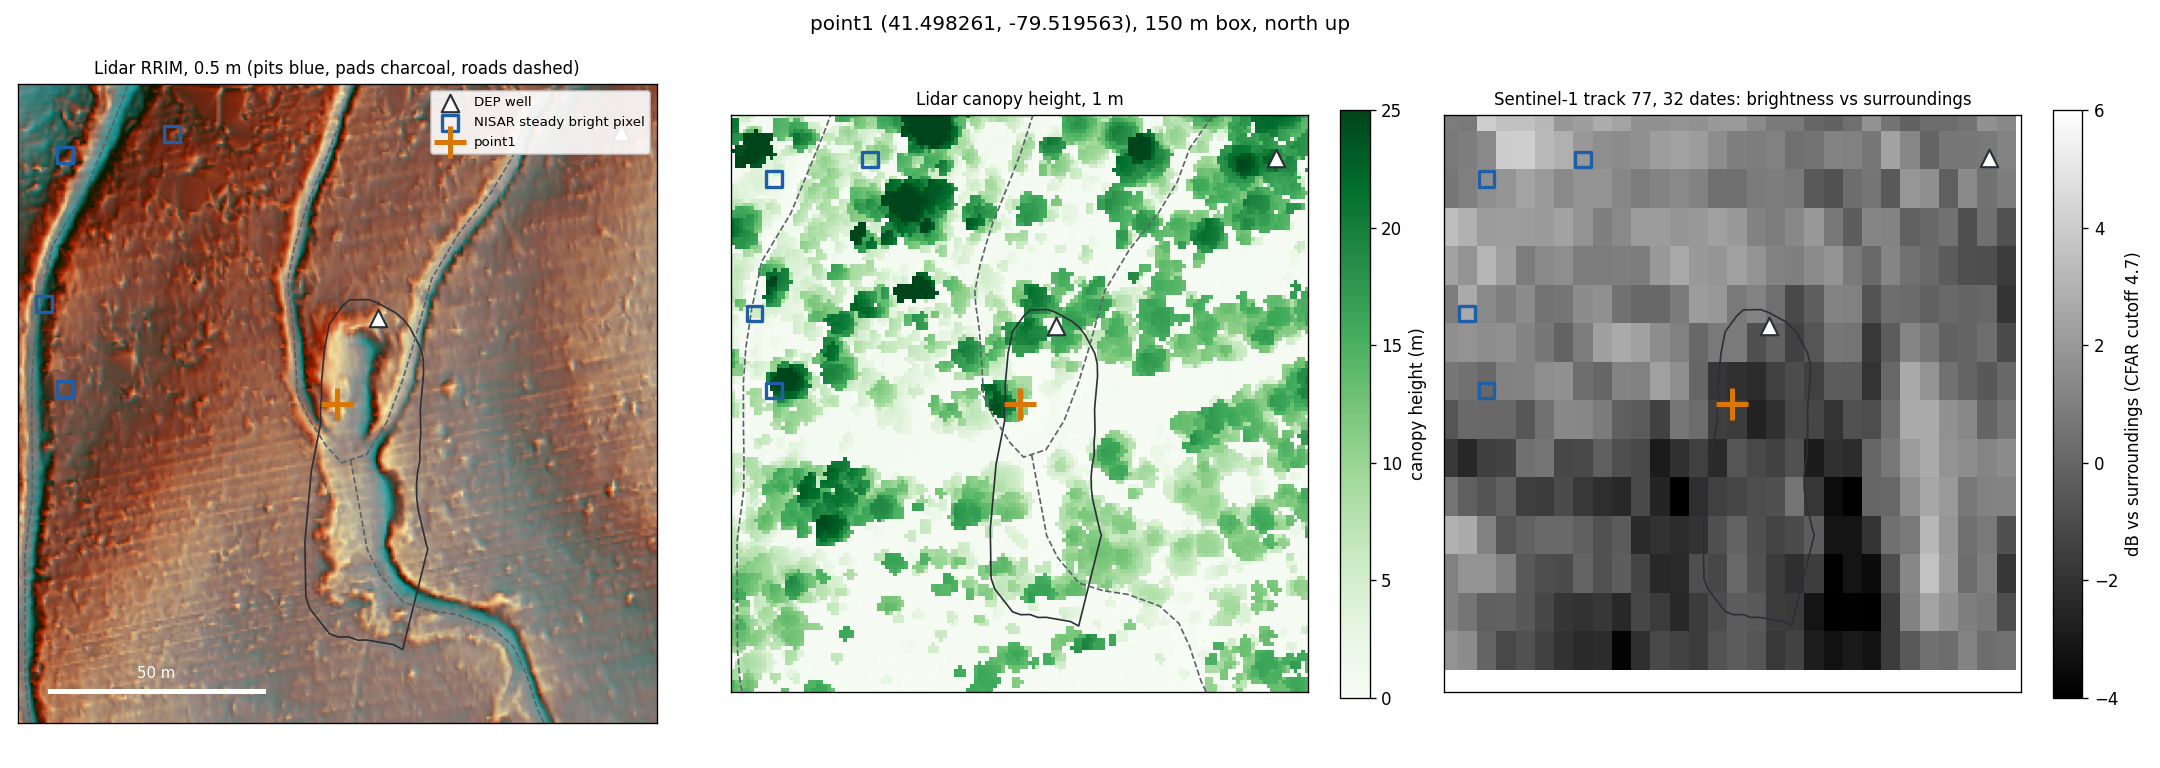
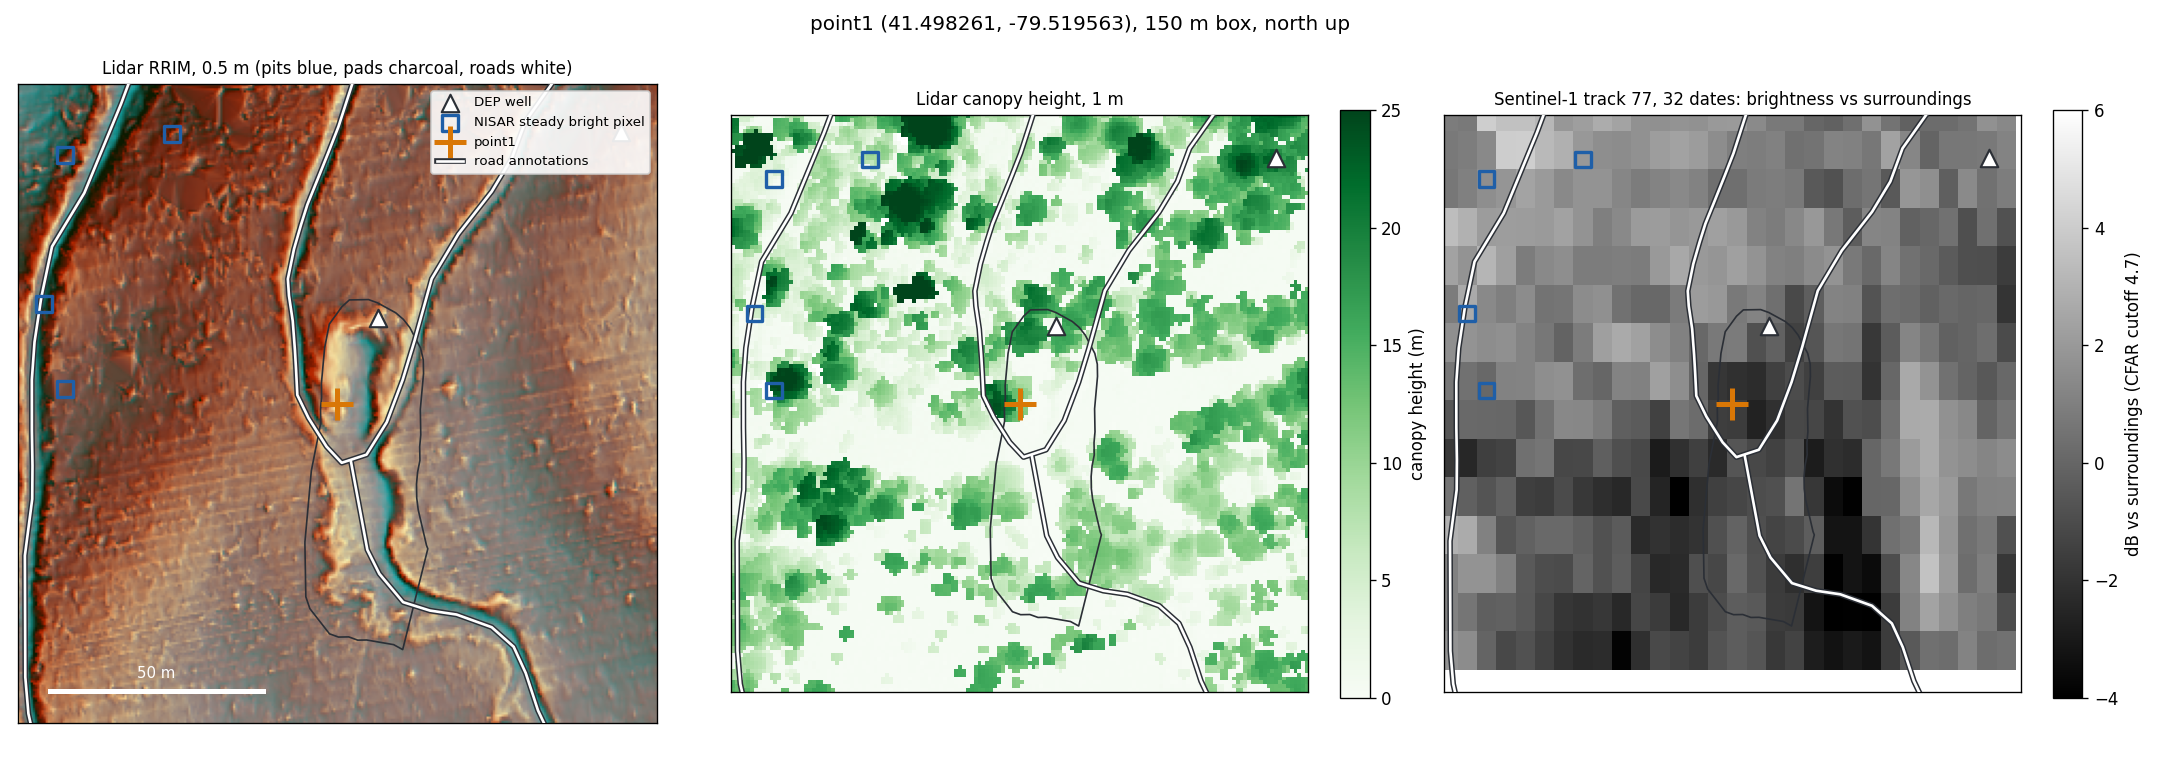
s1: site figures draw roads on all panels

diff --git a/notebooks/wellsight_v2/s5_eval/_s1_site_context_9t.py b/notebooks/wellsight_v2/s5_eval/_s1_site_context_9t.py
@@ -1,7 +1,7 @@
 """Three-panel site figure for one point on 9t: lidar RRIM, lidar canopy height, Sentinel-1 brightness vs surroundings.
 
 Marks DEP wells (white triangles), NISAR steady bright pixels (blue squares, from the lidar-placed SLC run) and the
-point itself (orange plus). Annotated pits are outlined in blue, pads in charcoal, roads dashed grey.
+point itself (orange plus). Annotated pits are outlined in blue, pads in charcoal, roads (roads.shp) as white lines with a charcoal edge on all three panels.
 Sentinel-1 panel is the CFAR signal-to-clutter ratio from _s1_metal_cfar_9t.py (32 dates, track 77, water masked).
 Colours: lost/found pair #1F5FA8 / #D97706 (dataviz validate_palette.js --pairs all, worst dE 21.1 deutan), plus
 charcoal and grey; every class also has its own marker shape. Canopy uses a single-hue green ramp (sequential).
@@ -17,6 +17,7 @@ import geopandas as gpd
 import matplotlib
 matplotlib.use("Agg")
 import matplotlib.pyplot as plt
+import matplotlib.patheffects as pe
 import numpy as np
 import rasterio
 from pyproj import Transformer
@@ -54,8 +55,10 @@ def main():
             if len(g):
                 gg = g.to_crs(32617) if s1 else g
                 gg.boundary.plot(ax=ax, **kw)
-        if len(roads) and not s1:
-            roads.plot(ax=ax, color=GREY, linewidth=1, linestyle="--")
+        if len(roads):
+            (roads.to_crs(32617) if s1 else roads).plot(
+                ax=ax, color="white", linewidth=1.6, zorder=4,
+                path_effects=[pe.Stroke(linewidth=3.4, foreground=INK), pe.Normal()])
         pts = [(wells, dict(marker="^", s=110, facecolor="white", edgecolor=INK, linewidths=1.3, label="DEP well")),
                (bright, dict(marker="s", s=90, facecolor="none", edgecolor=BLUE, linewidths=2, label="NISAR steady bright pixel"))]
         for g, kw in pts:
@@ -71,7 +74,7 @@ def main():
         img = r.read(window=from_bounds(xx - H, yy - H, xx + H, yy + H, r.transform)).transpose(1, 2, 0)
     axs[0].imshow(img, extent=(xx - H, xx + H, yy - H, yy + H))
     marks(axs[0])
-    axs[0].set_title("Lidar RRIM, 0.5 m (pits blue, pads charcoal, roads dashed)", fontsize=10)
+    axs[0].set_title("Lidar RRIM, 0.5 m (pits blue, pads charcoal, roads white)", fontsize=10)
     with rasterio.open(CHM) as r:
         c = r.read(1, window=from_bounds(xx - H, yy - H, xx + H, yy + H, r.transform)).astype(float)
     c[c < -100] = np.nan
@@ -100,6 +103,8 @@ def main():
     L = 50 if H >= 60 else 20
     axs[0].plot([xx - H + 0.1 * H, xx - H + 0.1 * H + L], [yy - H + 0.1 * H] * 2, color="white", lw=3)
     axs[0].text(xx - H + 0.1 * H + L / 2, yy - H + 0.14 * H, f"{L} m", color="white", ha="center", fontsize=9)
+    axs[0].plot([], [], color="white", linewidth=1.6, path_effects=[pe.Stroke(linewidth=3.4, foreground=INK), pe.Normal()],
+                label="road annotations")
     axs[0].legend(loc="upper right", fontsize=8, framealpha=0.9)
     fig.suptitle(f"{name} ({lat:.6f}, {lon:.6f}), {2 * H:.0f} m box, north up", fontsize=12)
     fig.tight_layout()

diff --git a/docs/analysis_log.md b/docs/analysis_log.md
@@ -5,6 +5,11 @@ result. Newest entries at the top. Per `Claude.md` reporting rule.
 
 ---
 
+## 2026-11-13 Site context figures redrawn with roads on every panel
+
+- `_s1_site_context_9t.py` now draws `roads.shp` on all three panels (white line, charcoal edge), including Sentinel-1. Previously thin grey dashes, lidar panels only.
+- Regenerated `data/9t/results/s1/sites/s1_site_{pit295,point1,point2,point3}_9t.png`.
+
 ## 2026-11-13 Lidar road annotations exported to KML, 9t and 613590
 
 - Source `qgis/annotations/roads.shp` (EPSG:4326, so no reprojection). Lines kept where they touch the valid footprint of `dem_9t_1m.tif` and `dem_613590_1m.tif`. Multi-part lines split.
